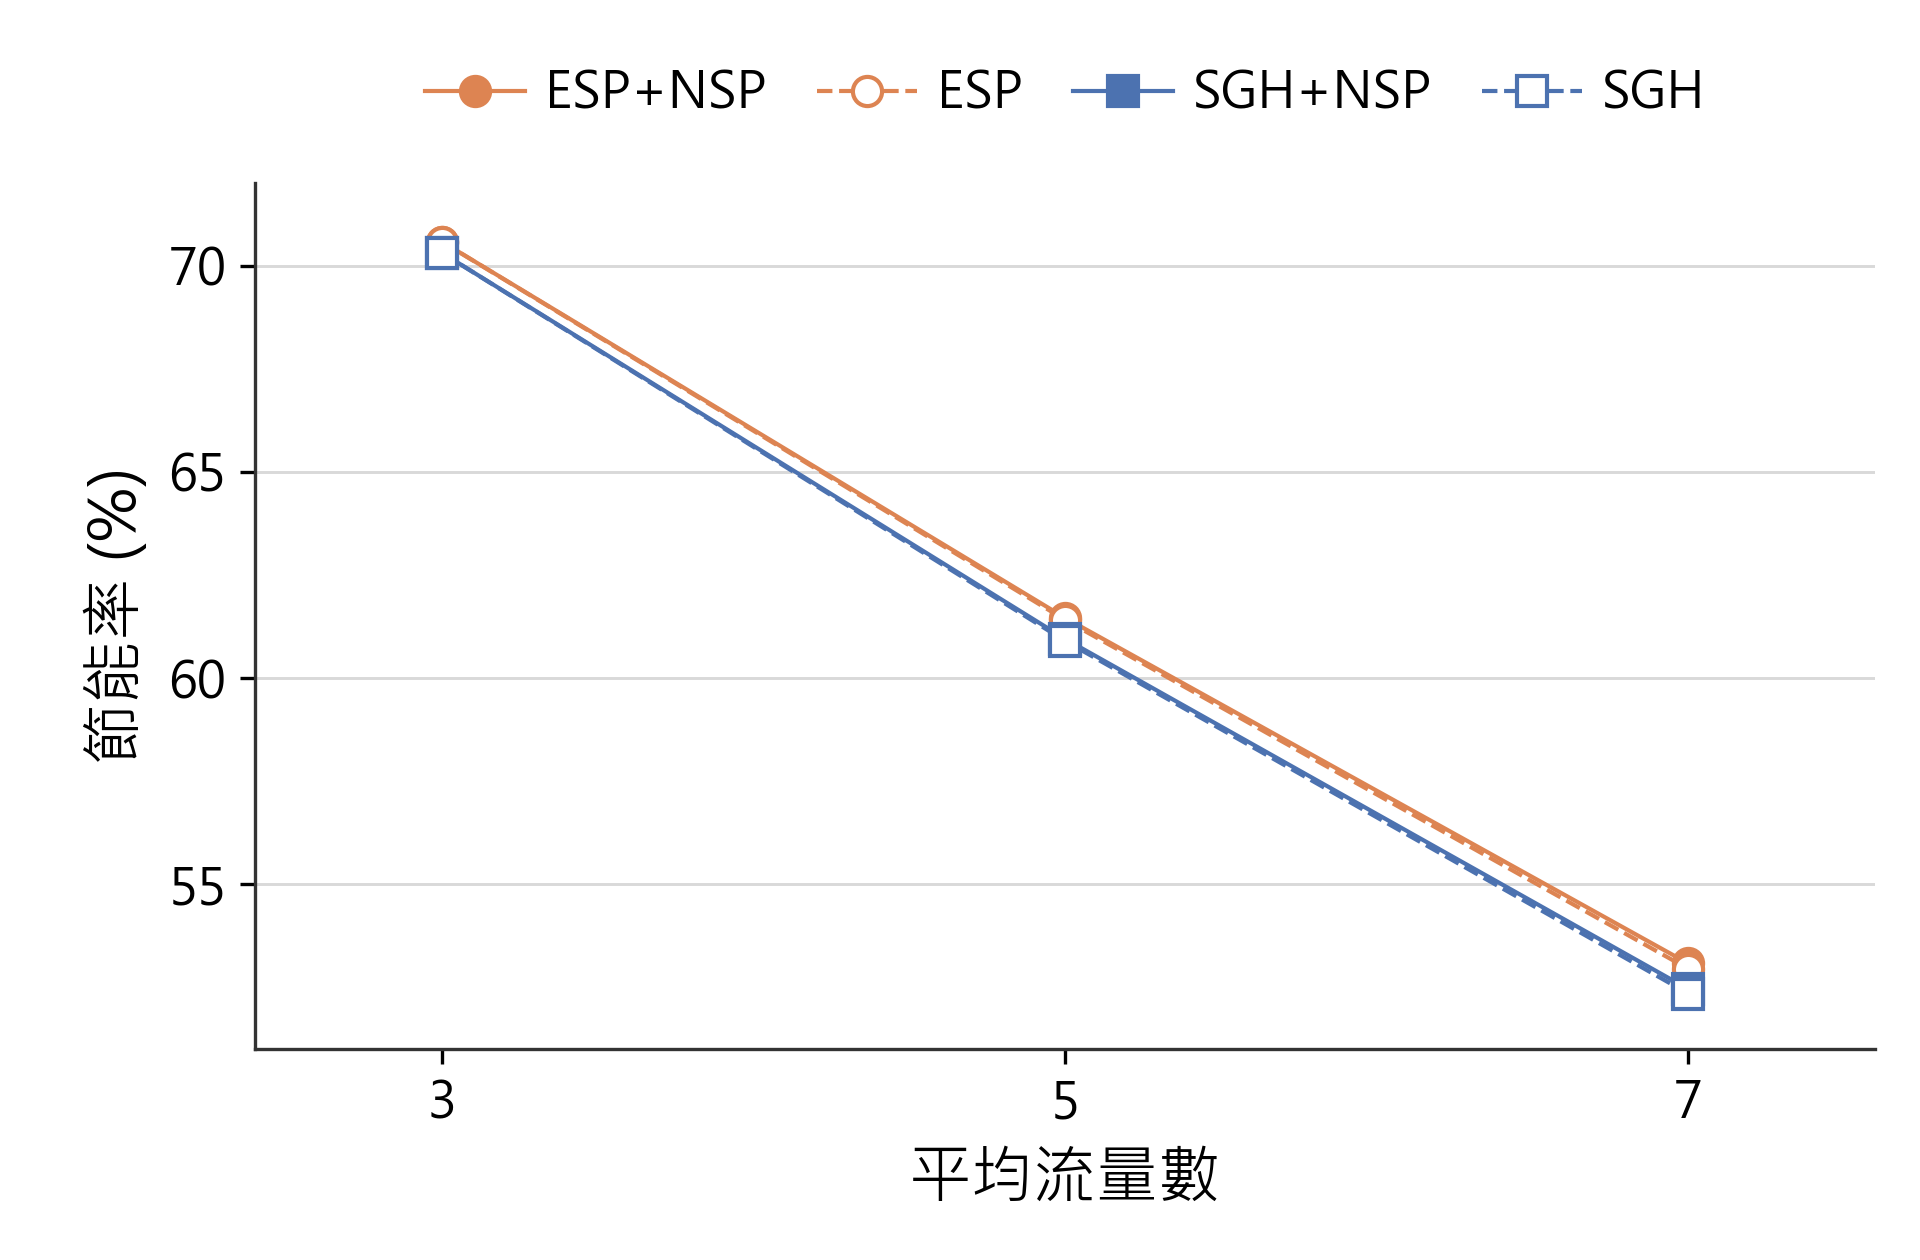
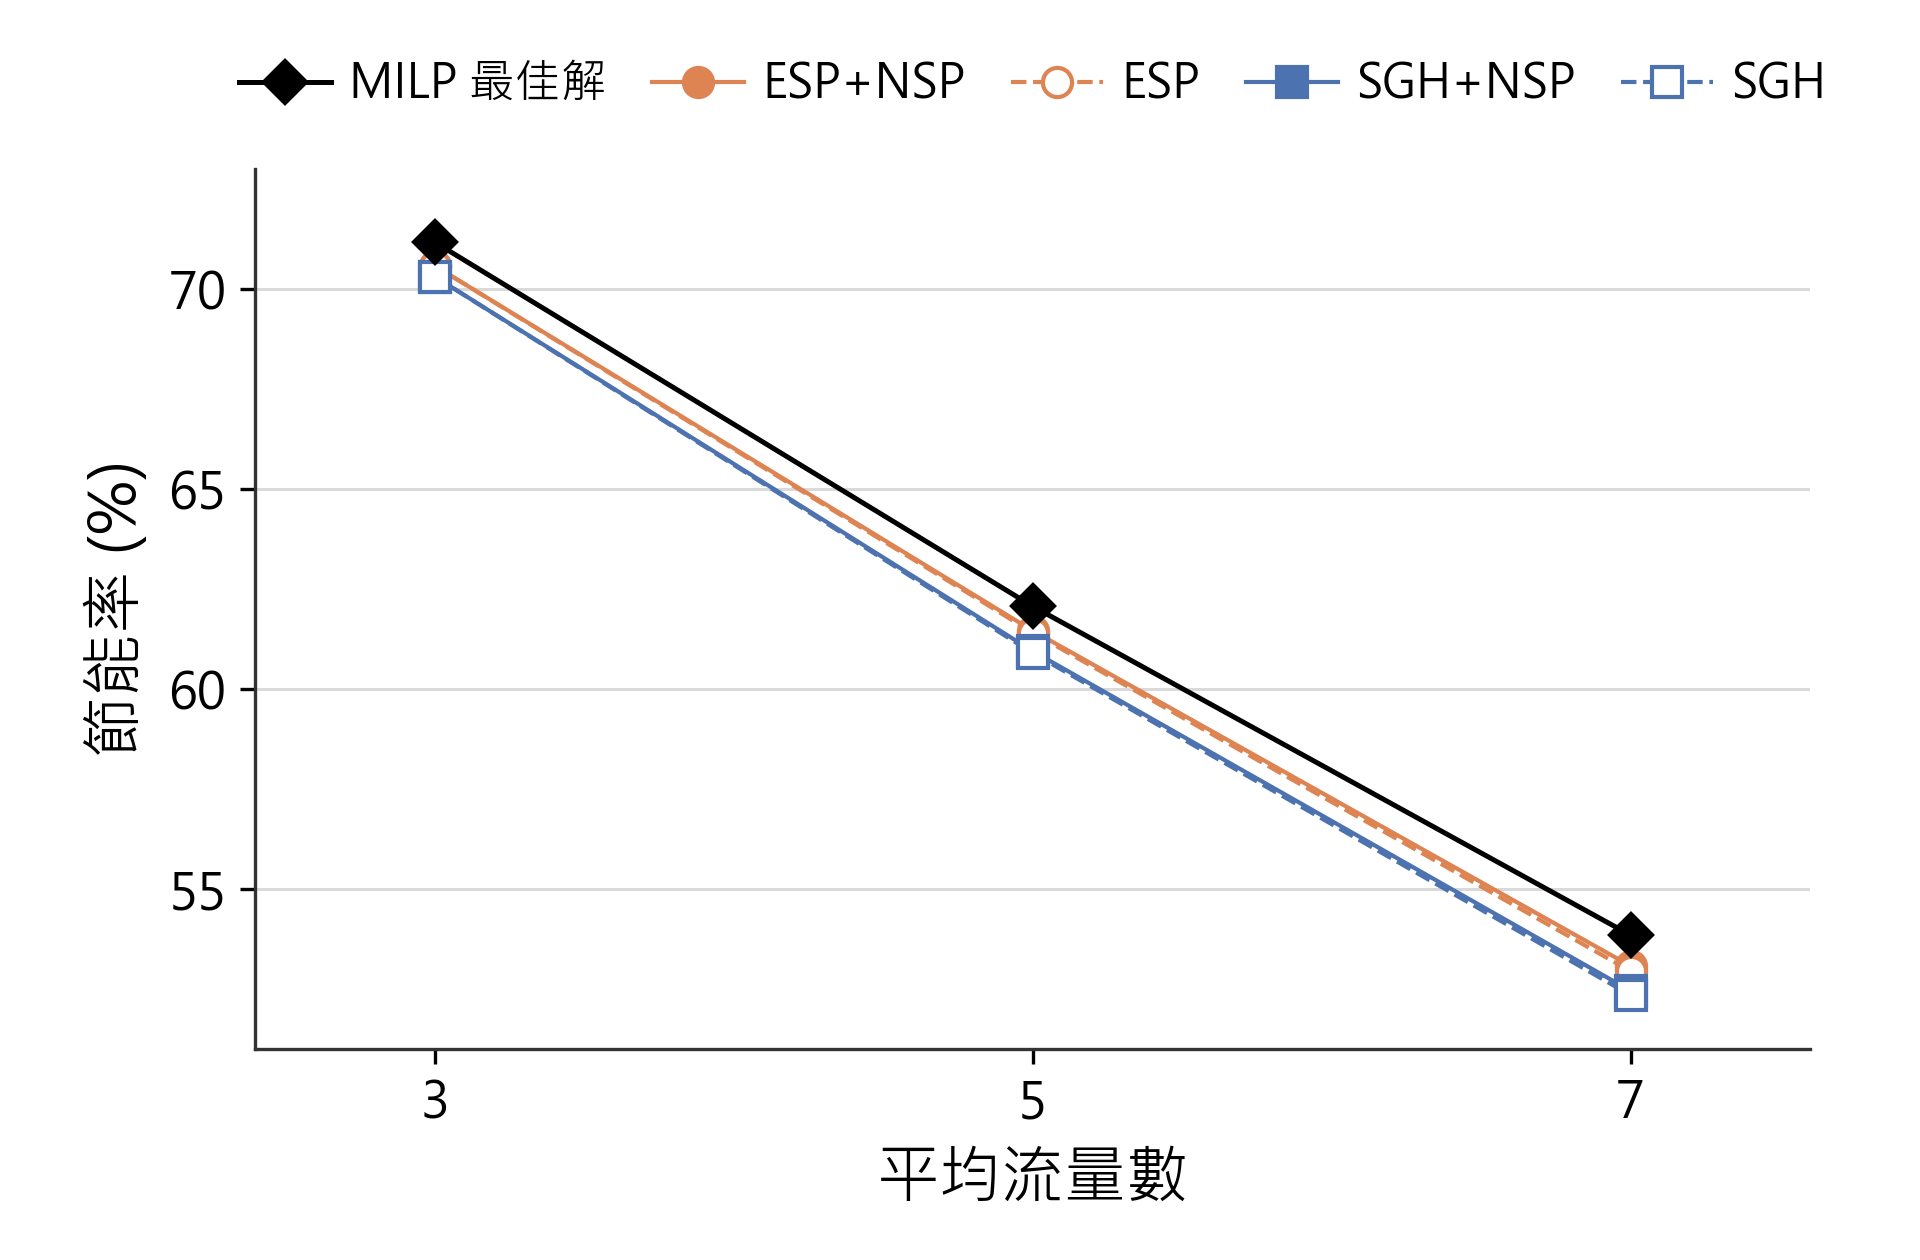
GEANT 3:1 平均流量 3／5／7 的論文圖補上 MILP 最佳解
MILP 結果 2120 題全 OPTIMAL（71.17／62.07／53.85），逐 batch 無 heuristic 超過最佳解。

diff --git a/thesis_figures/plot_geant357_31.py b/thesis_figures/plot_geant357_31.py
@@ -5,7 +5,8 @@
 
   nsp_31_geant.png
 
-MILP=None 的點不畫；結果等學校電腦（milp_transfer/RUN_geant_31_k357.md）。
+MILP：milp_transfer/results_milpsnap_31/seed_milpsnap_geant_k0{3,5,7}_results.csv（--topo geant_31，2120 題全 OPTIMAL，
+milp_transfer/RUN_geant_31_k357.md），combine_milp_snapshot.py 還原逐 batch 後取 10 batch 平均。
 
 ── 資料來源 ──
 sim.py + sweep_sorted.run_one_combo，topo=geant_31，seed_000_geant_k0{3,5,7}.json（0.1～0.5 Mbps，flow 15 秒，10 batch），
@@ -17,9 +18,9 @@ import plot_nsp9_31 as base
 
 DATA = {
     'geant': {
-        3: {'SPF': 70.31, 'SPF+NSP': 70.31, 'ESP': 70.58, 'ESP+NSP': 70.58, 'MILP': None},
-        5: {'SPF': 60.90, 'SPF+NSP': 60.95, 'ESP': 61.41, 'ESP+NSP': 61.46, 'MILP': None},
-        7: {'SPF': 52.35, 'SPF+NSP': 52.46, 'ESP': 52.95, 'ESP+NSP': 53.08, 'MILP': None},
+        3: {'SPF': 70.31, 'SPF+NSP': 70.31, 'ESP': 70.58, 'ESP+NSP': 70.58, 'MILP': 71.17},
+        5: {'SPF': 60.90, 'SPF+NSP': 60.95, 'ESP': 61.41, 'ESP+NSP': 61.46, 'MILP': 62.07},
+        7: {'SPF': 52.35, 'SPF+NSP': 52.46, 'ESP': 52.95, 'ESP+NSP': 53.08, 'MILP': 53.85},
     },
 }
 
